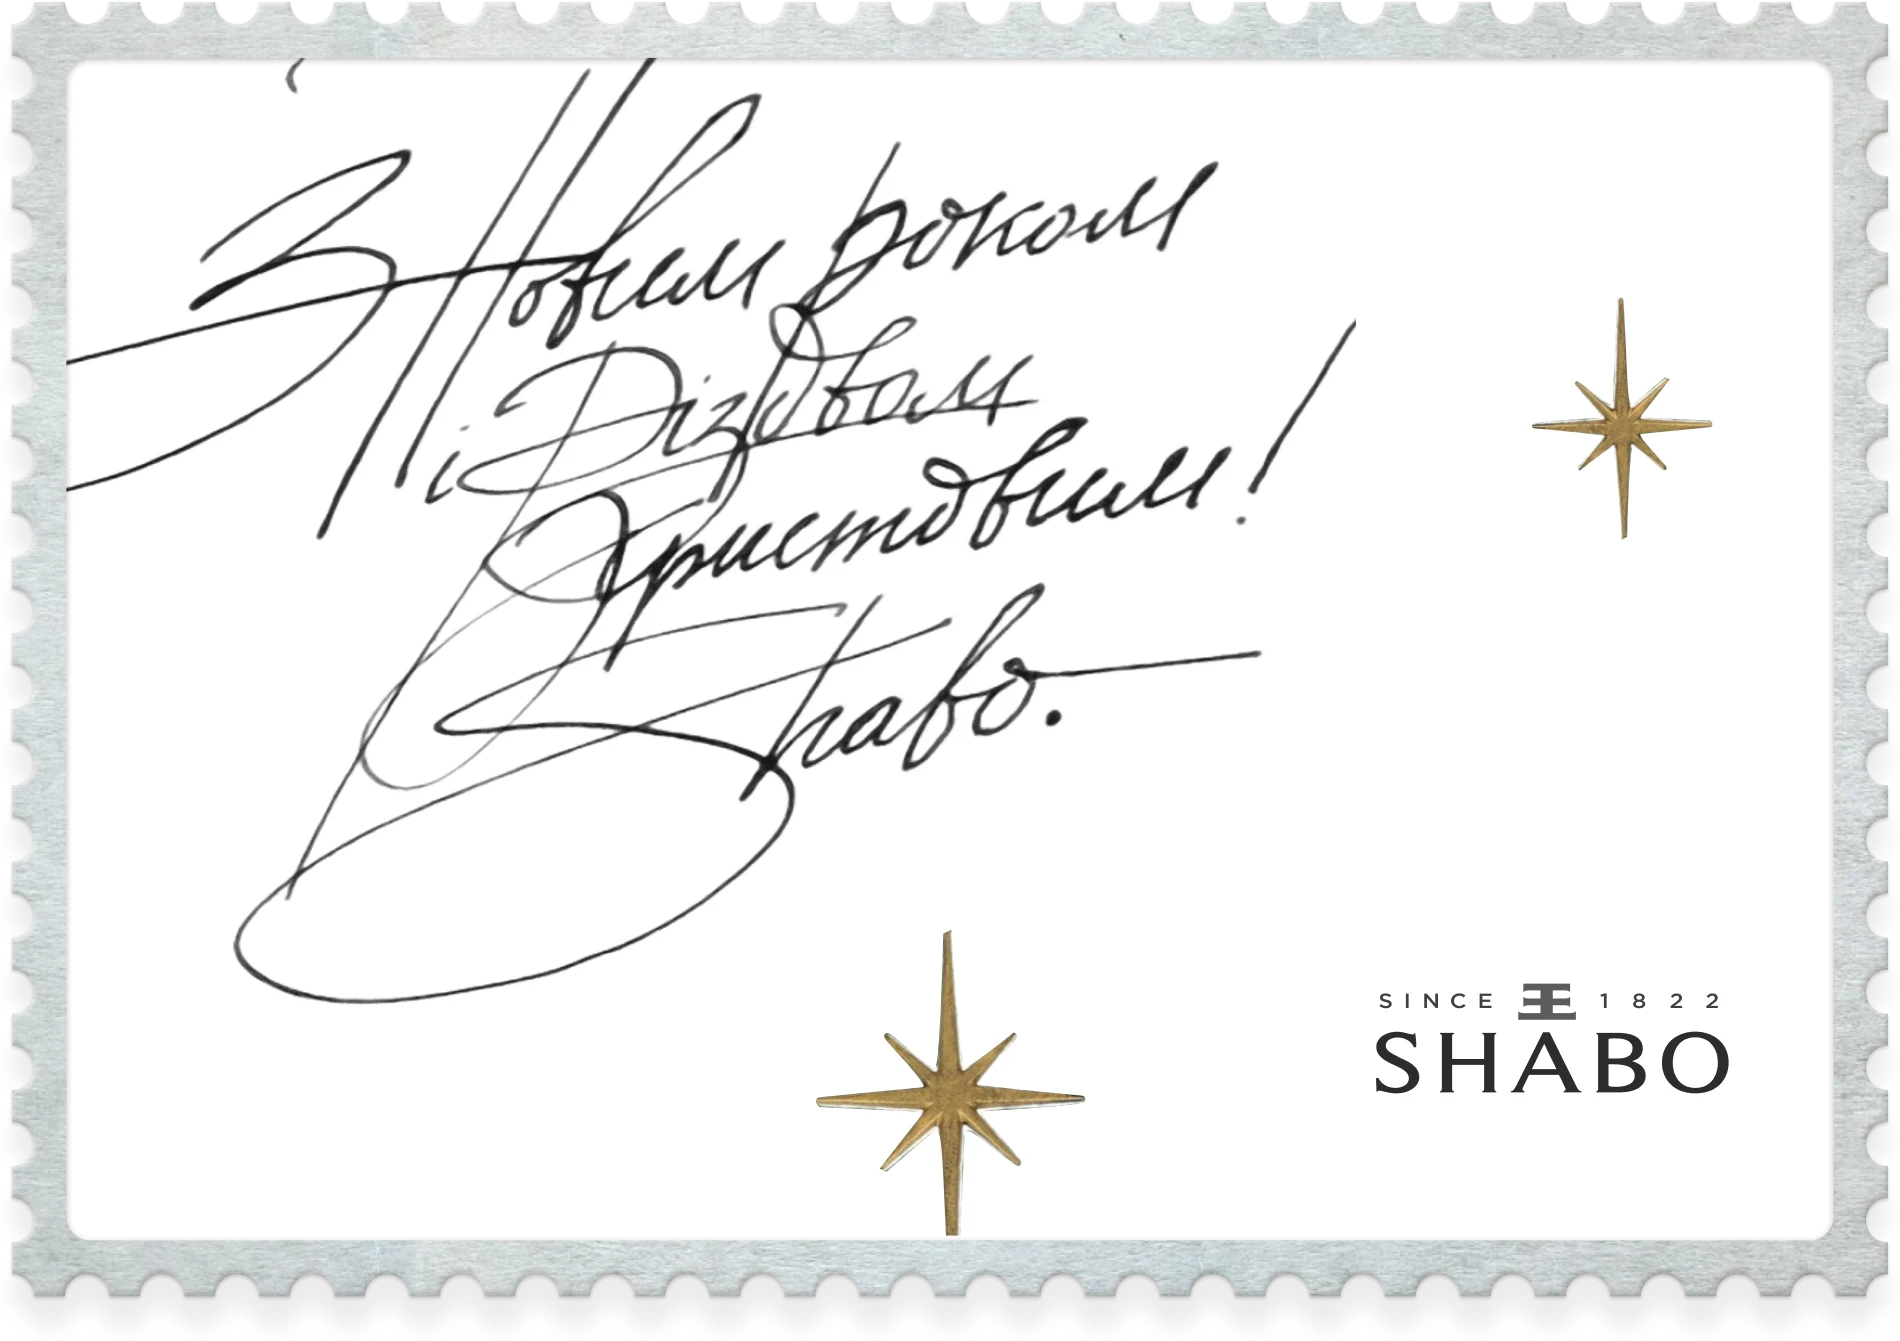
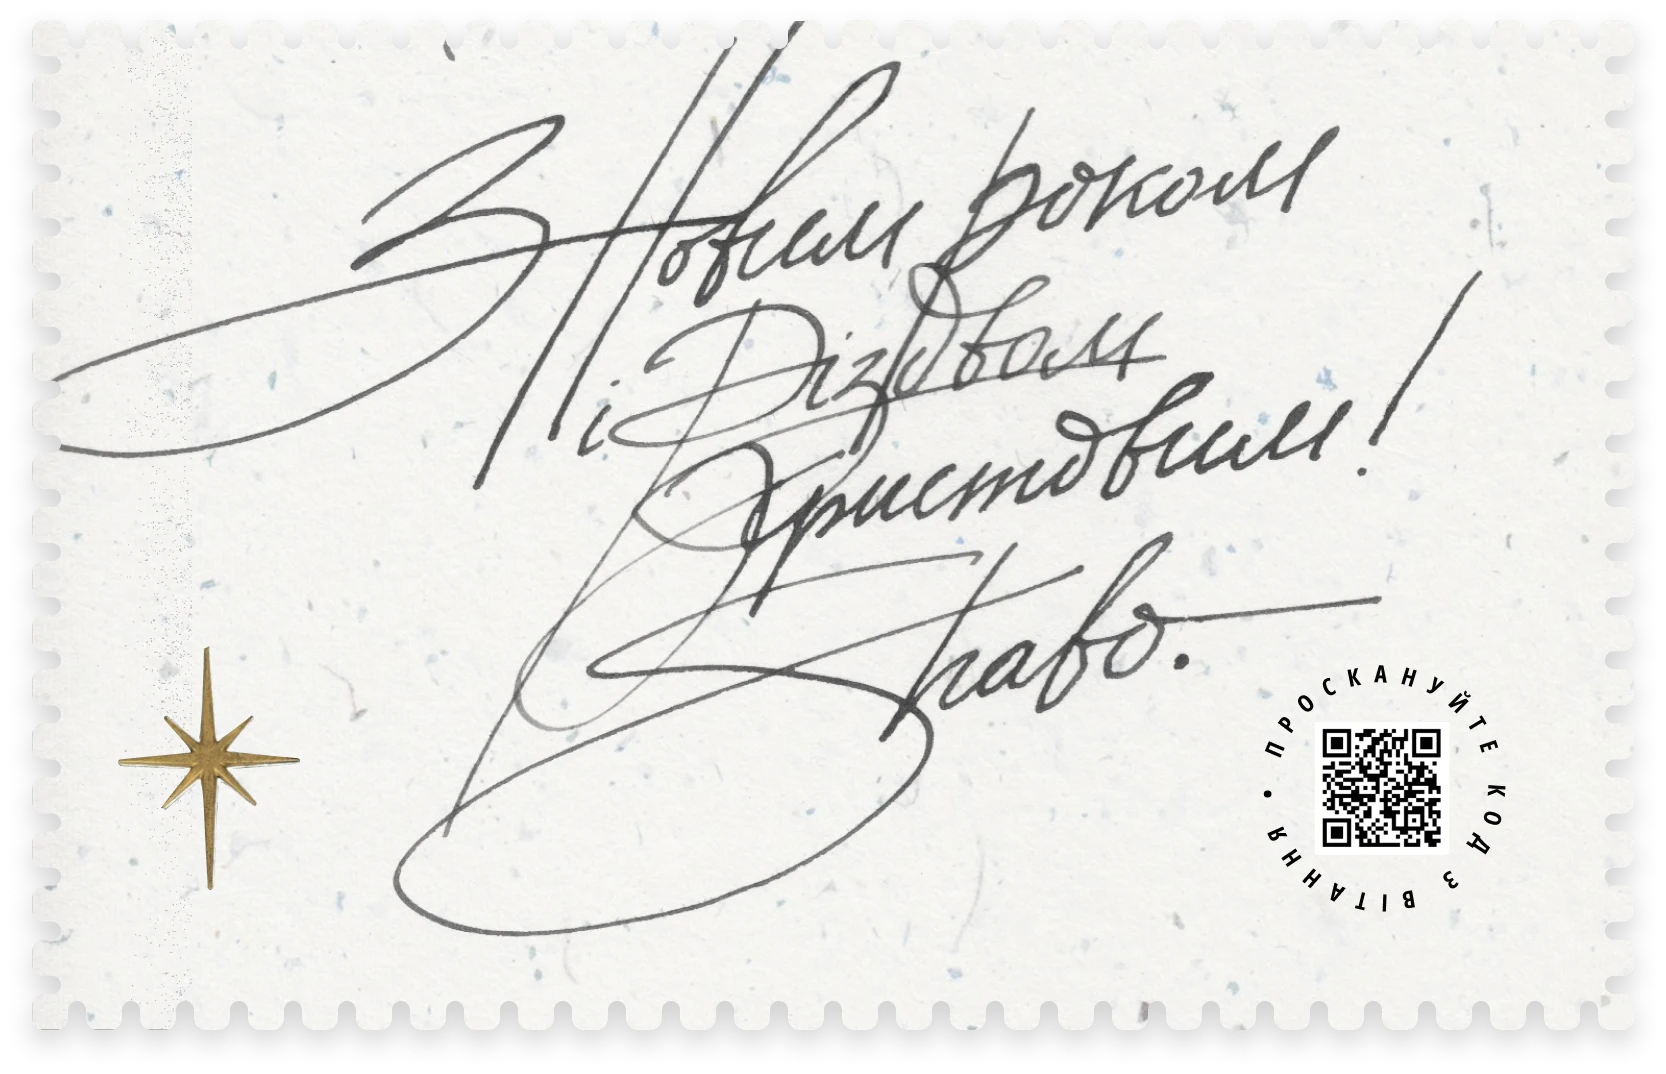
Shabo page: new card copy and design, back-to-front card flip, updated slide 1 with livelier gradients

diff --git a/src/components/ShaboSections.tsx b/src/components/ShaboSections.tsx
@@ -29,7 +29,8 @@ export type PostSlide =
   | string
   | { bg: string; blobs: string; fg: string; /** draw the handwritten signature (slide 5) when the slide is first shown */ signature?: boolean }
   // Slide 1: live gradient ellipses (SVG) behind the bottle layer `fg`; they slide so the dark part of the gradient travels sideways.
-  | { bg: string; ellipses: "slide1"; fg: string }
+  // `fg` = bottle + logo (drifts slowly), `hint` = «Гортайте далі» + arrow (nudges), both transparent layers over the ellipses.
+  | { bg: string; ellipses: "slide1"; fg: string; hint?: string }
   // Layered slide whose shapes and text come in when the slide first becomes active (the logo stays put).
   | { bg: string; shapes: string[]; texts: string[]; logo: string };
 
@@ -151,8 +152,8 @@ function SlideVideo({ src, label }: { src: string; label: string }) {
   return <video ref={ref} src={src} aria-label={label} muted loop playsInline preload="auto" className="absolute inset-0 w-full h-full object-cover" />;
 }
 
-// The six Figma ellipses of slide 1. They start in the first Figma frame (69:20213), smoothly move/stretch
-// into the second one (69:20243) and back; the radial gradient inside each ellipse goes with it.
+// The six Figma ellipses of slide 1. They start in the first Figma frame (69:20213) and sweep (a stretched
+// version of) the second one back and forth, so the gradient shapes keep drifting across the slide.
 function SlideEllipses() {
   return (
     <svg className="absolute inset-0 w-full h-full" viewBox="0 0 645 855" preserveAspectRatio="xMidYMid slice" aria-hidden>
@@ -169,7 +170,11 @@ function SlideEllipses() {
         <g
           key={i}
           className="shabo-slide"
-          style={{ ["--from" as string]: `matrix(${e.from.join(",")})`, ["--to" as string]: `matrix(${e.to.join(",")})` }}
+          style={{
+            ["--from" as string]: `matrix(${e.from.join(",")})`,
+            // exaggerate Figma's second keyframe by 1.6× so the shapes sweep further
+            ["--to" as string]: `matrix(${e.to.map((v, j) => +(e.from[j] + (v - e.from[j]) * 1.6).toFixed(4)).join(",")})`,
+          }}
         >
           <ellipse cx={e.w / 2} cy={e.h / 2} rx={e.w / 2} ry={e.h / 2} fill={`url(#shabo-e${i})`} filter={e.blur ? "url(#shabo-eblur)" : undefined} />
         </g>
@@ -297,9 +302,9 @@ function PostCarousel({ slides, alt, autoplay = false, meta }: { slides: PostSli
     <>
       <style>{`
         @keyframes shabo-meta-in { from { opacity: 0; } to { opacity: 1; } }
-        /* the shapes never move or resize; only the dark part of their gradient slides left ↔ right inside them */
+        /* gradient shapes drift between Figma's two keyframes */
         @keyframes shabo-slide { from { transform: var(--from); } to { transform: var(--to); } }
-        .shabo-slide { animation: shabo-slide 9s ease-in-out infinite alternate; }
+        .shabo-slide { transform: var(--from); animation: shabo-slide 4.5s ease-in-out infinite alternate; }
         @keyframes shabo-xfade { from { opacity: 0; } to { opacity: 1; } }
         .shabo-xfade { animation: shabo-xfade 6s ease-in-out infinite alternate; }
         @keyframes shabo-grad { from { background-position: 0% 0; } to { background-position: 100% 0; } }
@@ -329,7 +334,20 @@ function PostCarousel({ slides, alt, autoplay = false, meta }: { slides: PostSli
                   <>
                     {/* gradient shapes stay put; only their gradient moves */}
                     {"ellipses" in src ? <SlideEllipses /> : <GradientShape src={src.blobs} delay={k * 2.3} />}
-                    <Image src={src.fg} alt="" fill sizes="(min-width: 768px) 520px, 90vw" className="object-cover" />
+                    {"ellipses" in src ? (
+                      <>
+                        <div className="absolute inset-0">
+                          <Image src={src.fg} alt="" fill sizes="(min-width: 768px) 520px, 90vw" className="object-cover" />
+                        </div>
+                        {src.hint && (
+                          <div className="absolute inset-0">
+                            <Image src={src.hint} alt="" fill sizes="(min-width: 768px) 520px, 90vw" className="object-cover" />
+                          </div>
+                        )}
+                      </>
+                    ) : (
+                      <Image src={src.fg} alt="" fill sizes="(min-width: 768px) 520px, 90vw" className="object-cover" />
+                    )}
                     {"signature" in src && src.signature && <DrawnSignature on={shown.includes(k)} />}
                   </>
                 ) : (
@@ -403,8 +421,12 @@ const ENV = { w: 1134, h: 1375, hinge: 594 };
 // Whole composition (envelope + confetti flying out to the right / above), same units as ENV.
 // The envelope stays centred (it never moves); the confetti scatters on both sides of it.
 const ENV_COMP = { w: 2180, h: 1520, top: 145, left: 523 };
-// New card (with the two gold stars) and its position inside the envelope box.
-const ENV_CARD = { x: 103, y: 81, w: 950, h: 670 };
+// Card (Figma «Postcard – stamp die-cut», node 85:396: one gold star + QR) and its position inside the envelope box.
+// The export is 1666×1074 (stamp 1602×1010 + shadow bleed), so the box keeps that ratio.
+const ENV_CARD = { x: 89, y: 101, w: 978, h: 630 };
+// How far the card rises (% of its height, upwards) so it clears the pocket for the flip, and the flip duration.
+const CARD_RISE = -30;
+const CARD_FLIP_MS = 1000;
 // Confetti pieces [file, x, y, w, h] in ENV units; they scatter out of the envelope mouth when it opens.
 const ENV_CONFETTI: [string, number, number, number, number][] = [
   ["c01", 1166, 268, 62, 61],
@@ -457,6 +479,21 @@ const envBox = (x: number, y: number, w: number, h: number): React.CSSProperties
 // section is shown; click toggles it.
 function EnvelopeCard({ show, alt }: { show: boolean; alt: string }) {
   const [open, setOpen] = useState(false);
+  // Card choreography: 0 hidden in the pocket · 1 slides out and rises (back side) · 2 turns to the front · 3 settles into the envelope.
+  const [step, setStep] = useState(0);
+  useEffect(() => {
+    if (!open) {
+      setStep(0);
+      return;
+    }
+    setStep(1);
+    const t2 = window.setTimeout(() => setStep(2), 800 + 1100 + 350);
+    const t3 = window.setTimeout(() => setStep(3), 800 + 1100 + 350 + CARD_FLIP_MS + 500);
+    return () => {
+      window.clearTimeout(t2);
+      window.clearTimeout(t3);
+    };
+  }, [open]);
   const auto = useRef(false);
   useEffect(() => {
     if (!show || auto.current) return;
@@ -493,7 +530,7 @@ function EnvelopeCard({ show, alt }: { show: boolean; alt: string }) {
       ph: rnd(0, 6.28),
       sw: rnd(3, 7),
       floor: ENV.h - h - rnd(4, 40),
-      delay: 1000 + rnd(0, 380),
+      delay: 800 + 1100 + 350 + 300 + rnd(0, 380), // bursts as the card turns to its front
       born: false,
       bounced: false,
       rest: false,
@@ -604,16 +641,32 @@ function EnvelopeCard({ show, alt }: { show: boolean; alt: string }) {
         </div>
       </div>
 
+      {/* card: slides out showing the gold back, rises clear of the pocket, turns over to the front,
+          then settles back into the envelope. The flip happens above the pocket, never inside it. */}
       <div
         style={{
           ...envBox(ENV_CARD.x, ENV_CARD.y, ENV_CARD.w, ENV_CARD.h),
           zIndex: 3,
-          transform: open ? "translateY(0)" : "translateY(78%)",
-          opacity: open ? 1 : 0,
-          transition: `transform 1100ms ${EASE} ${open ? 800 : 0}ms, opacity 300ms ease ${open ? 800 : 700}ms`,
+          perspective: "2600px",
+          transform: step === 0 ? "translateY(78%)" : step === 3 ? "translateY(0)" : `translateY(${CARD_RISE}%)`,
+          opacity: step === 0 ? 0 : 1,
+          transition:
+            step === 0
+              ? `transform 700ms ${EASE}, opacity 300ms ease 500ms`
+              : `transform ${step === 1 ? 1100 : step === 3 ? 1000 : 900}ms ${EASE} ${step === 1 ? 800 : 0}ms, opacity 300ms ease ${step === 1 ? 800 : 0}ms`,
         }}
       >
-        {img("card", ENV_CARD.w, ENV_CARD.h)}
+        <div
+          className="relative w-full h-full"
+          style={{
+            transformStyle: "preserve-3d",
+            transform: step >= 2 ? "rotateY(0deg)" : "rotateY(180deg)",
+            transition: step === 0 ? "transform 700ms ease" : `transform ${CARD_FLIP_MS}ms cubic-bezier(0.45, 0, 0.2, 1)`,
+          }}
+        >
+          <div className="absolute inset-0" style={{ backfaceVisibility: "hidden" }}>{img("card", ENV_CARD.w, ENV_CARD.h)}</div>
+          <div className="absolute inset-0" style={{ backfaceVisibility: "hidden", transform: "rotateY(180deg)" }}>{img("card-back", ENV_CARD.w, ENV_CARD.h)}</div>
+        </div>
       </div>
       {ENV_CONFETTI_POS.map(([n, , , w, h], i) => (
         <div

diff --git a/src/app/shabo/page.tsx b/src/app/shabo/page.tsx
@@ -32,7 +32,7 @@ const SECTIONS: ShaboSection[] = [
     alt: "Пост №1 — презентація вина SHABO Reserve в Instagram",
     // Carousel slides exported from Figma (Social media → Frame 36, node 57:5031).
     slides: [
-      { bg: "#B00A39", ellipses: "slide1", fg: "/images/works/shabo/post-1-s1-fg.webp" },
+      { bg: "#B00A39", ellipses: "slide1", fg: "/images/works/shabo/post-1-s1-bottle-v2.webp", hint: "/images/works/shabo/post-1-s1-hint-v2.webp" },
       { bg: "#A9153F", shapes: ["/images/works/shabo/post-1-s2-shapes1-v2.webp"], texts: ["/images/works/shabo/post-1-s2-text1-v2.webp", "/images/works/shabo/post-1-s2-text2-v2.webp"], logo: "/images/works/shabo/post-1-logo-v2.webp" },
       { bg: "#A9153F", shapes: ["/images/works/shabo/post-1-s3-shapes1-v2.webp", "/images/works/shabo/post-1-s3-shapes2-v2.webp"], texts: ["/images/works/shabo/post-1-s3-text1-v2.webp", "/images/works/shabo/post-1-s3-text2-v2.webp"], logo: "/images/works/shabo/post-1-logo-v2.webp" },
       { bg: "#A9153F", shapes: ["/images/works/shabo/post-1-s4-shapes1-v2.webp", "/images/works/shabo/post-1-s4-shapes2-v2.webp", "/images/works/shabo/post-1-s4-shapes3-v2.webp"], texts: ["/images/works/shabo/post-1-s4-text1-v2.webp", "/images/works/shabo/post-1-s4-text2-v2.webp", "/images/works/shabo/post-1-s4-text3-v2.webp", "/images/works/shabo/post-1-s4-text4-v2.webp"], logo: "/images/works/shabo/post-1-logo-v2.webp" },
@@ -75,7 +75,7 @@ const SECTIONS: ShaboSection[] = [
     voice: { src: "/audio/shabo-card.m4a", duration: "0:30" },
     title: "Листівка від SHABO з Новим роком та Різдвом для партнерів",
     description:
-      "Антиква Cormorant додає історичної ваги, дрібний гротеск — сучасного контрасту. Ієрархія проста: бренд → продукт → одна фраза. Аудиторія — поціновувачі вина 30–50 років, які обирають якість та історію бренду, а не знижки.",
+      "В еру штучного інтелекту, коли все робиться промптом за лічені секунди, хочеться чогось справжнього й теплого, особливо на свята. Тому пропоную оформити кожну листівку вручну каліграфією. Якщо партнерів не тисячі, а сотня-дві, то за день можна підписати всім, і кожна листівка буде унікальною. QR-код веде на відео, де записано процес створення, до якого можна залучити всю команду. Нехай воно буде не ідеальним, але щирим.",
     image: null, // placeholder until the card is ready
     ratio: [1720, 1041],
     alt: "Листівка від SHABO у конверті — натисніть, щоб відкрити або закрити",
